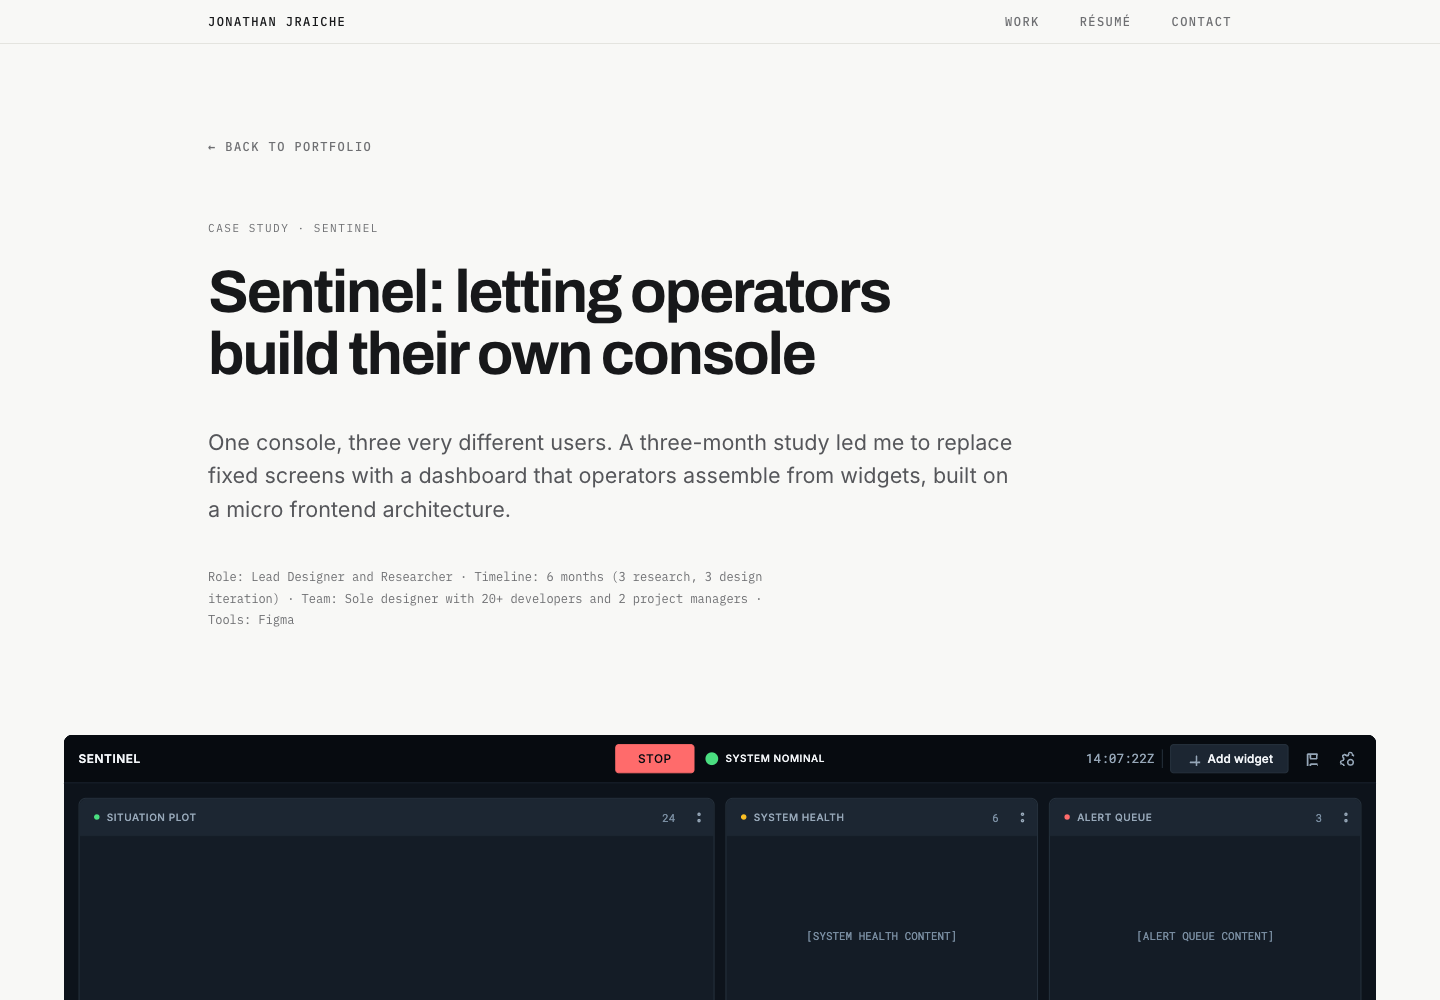
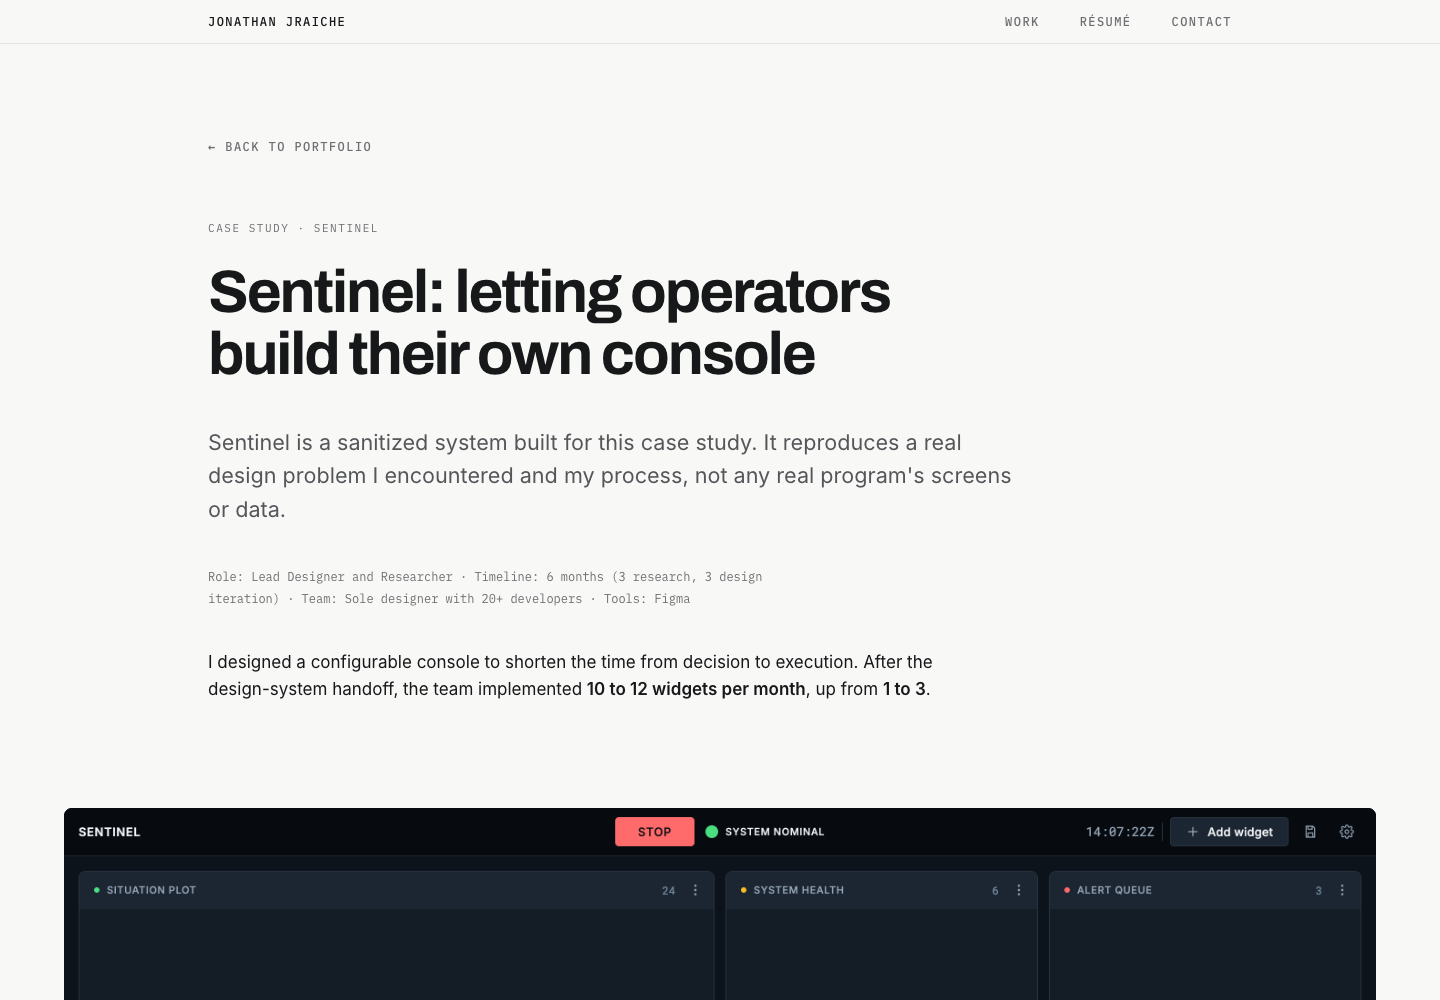
Ground Sentinel case study in research and implementation outcomes

diff --git a/src/pages/SentinelCaseStudy.jsx b/src/pages/SentinelCaseStudy.jsx
@@ -59,7 +59,7 @@ export default function SentinelCaseStudy() {
   const tried = sections['What I tried first'].split('### Fixed layouts by sign-in role');
   const walkthrough = [...sections['How the builder works'].matchAll(/`([^`]+)\.html`: `([^`]+)`/g)];
   return <SentinelSavedProvider><article className="sentinel-case-study" aria-labelledby="sentinel-title">
-    <div className="case-intro"><a className="case-back mono" href="#hero">← Back to portfolio</a><p className="micro">Case study · Sentinel</p><h1 id="sentinel-title">{value('Title')}</h1><p className="case-summary">{value('One-line summary')}</p><p className="case-meta"><Inline text={value('Meta row')} /></p></div>
+    <div className="case-intro"><a className="case-back mono" href="#hero">← Back to portfolio</a><p className="micro">Case study · Sentinel</p><h1 id="sentinel-title">{value('Title')}</h1><p className="case-summary">{value('One-line summary')}</p><p className="case-meta"><Inline text={value('Meta row')} /></p><p className="case-overview"><Inline text={value('Project summary')} /></p></div>
     <div className="case-wide"><Figure screen="Populated" eager /></div>
     <div className="case-body">
       <Section name="The problem"><Copy text={sections['The problem']} personas /></Section>

diff --git a/src/styles/sentinel-case-study.css b/src/styles/sentinel-case-study.css
@@ -7,6 +7,7 @@
 .case-intro h1 { max-width: 24ch; }
 .case-summary { font-size: var(--size-lede); line-height: 1.55; color: var(--color-ink-soft); max-width: 60ch; margin-top: var(--s-l); }
 .case-meta { font-family: var(--font-mono); font-size: .75rem; line-height: 1.8; color: var(--color-muted); max-width: 80ch; margin-top: var(--s-l); }
+.case-overview { max-width: 68ch; margin-top: var(--s-l); line-height: 1.6; }
 .case-wide { max-width: 96rem; padding-inline: var(--gutter); margin-inline: auto; }
 .case-screen { border-radius: var(--radius-lg); overflow: hidden; }
 .case-screen img { display: block; width: 100%; height: auto; }

diff --git a/sentinel-handoff/case-study/content.md b/sentinel-handoff/case-study/content.md
@@ -12,13 +12,17 @@ Page structure and draft copy. Write the copy as given; keep every `[BRACKETED]`
 
 **Meta row:** Role: Lead Designer and Researcher · Timeline: 6 months (3 research, 3 design iteration) · Team: Sole designer with 20+ developers · Tools: Figma
 
+**Project summary:** I designed a configurable console to shorten the time from decision to execution. After the design-system handoff, the team implemented **10 to 12 widgets per month**, up from **1 to 3**.
+
 **Hero figure:** `Populated.html` (Configuration in use).
 
 ---
 
 ## The problem
 
-I was charged with performing a 3-month research study to identify user needs for a console application that would combine existing tool capabilities across various domains. I found that the console would have to serve a much wider range of roles than the team initially expected. Their needs grouped into three personas that rarely overlapped:
+The project supported a high-stakes environment where decisions often had to be made quickly, with little room for error. Operators had to switch between applications to carry out those decisions. The goal was to shorten the time from decision to execution, our primary KPI, by bringing those tools into one console.
+
+I led a three-month research study to understand what users needed from the combined console. I found that it would have to serve a much wider range of roles than the team initially expected. Their needs grouped into three personas that rarely overlapped:
 
 * **Operators** do the hands-on work in the system and need their working tools in front of them at once.
 * **Supervisors** need to see what operators are doing, along with high-level health and status.
@@ -36,12 +40,18 @@ I was the only designer on a team of more than 20 developers and 2 project manag
 
 I had full ownership of how the research was run. The constraint was access: time with end users and stakeholders was limited, so every session had to earn its slot. I mixed methods to get the most out of it:
 
-* **One-on-one interviews** to understand each persona's work in depth.
+* **One-on-one interviews** with roughly 15 participants, with two rounds per person, to understand their work in depth.
 * **Group studies** to see where needs overlapped and where they conflicted.
 * **Surveys** to reach more users than live sessions allowed.
-* **A/B tests** comparing three approaches: tabbed views, building a dashboard by adding widgets, and loading a saved layout. The final design combines the last two.
+* **A/B tests** comparing the console builder with tabbed views and fixed layouts assigned at sign-in.
 
-The interviews drove the decision. They showed a much wider breadth of user roles than the team had planned for, wide enough that the solution the developers were already proposing would not hold up. At the end of the study I proposed the widget-based approach to stakeholders. It was approved, and design iteration began.
+### What I learned
+
+Some users needed to see related information together as they worked. The capabilities we were combining did not come as separate tools. I broke them into widgets so users could put the pieces they needed next to each other.
+
+Many users needed capabilities that were missing from their assigned views, while other capabilities in those views were irrelevant to their work. That feedback supported letting people choose which widgets appeared together.
+
+The interviews and group studies let me map each type of user to the tools they needed. That gave me confidence in recommending a configurable console to stakeholders. The proposal was approved, and design iteration began.
 
 ---
 
@@ -49,13 +59,13 @@ The interviews drove the decision. They showed a much wider breadth of user role
 
 ### Tabbed views
 
-Each tool got its own tab. It kept every view uncluttered, but only one view was visible at a time. Operators and supervisors both needed related widgets side by side to do their jobs, and tabs split that context apart.
+Each capability got its own tab. It kept every view uncluttered, but only one view was visible at a time. Operators and supervisors both needed related widgets side by side to do their jobs, and tabs split that context apart.
 
 **Figure:** `Explored-Tabs.html`, caption: `Tabbed views: clean, but one view at a time.`
 
 ### Fixed layouts by sign-in role
 
-The console would load a layout for whoever signed in: operator, supervisor, or maintainer. It addressed the persona problem on paper, but it required role-aware sign-in and layout routing the platform did not have, and the result was still a fixed layout per role. Any engineering investment had to pay for itself, and that work bought less than the alternative: moving the console to a micro frontend architecture.
+The console would load a fixed layout for whoever signed in: operator, supervisor, or maintainer. These views did not match the combinations of capabilities many users needed. The approach also required role-aware sign-in and layout routing that the platform did not have.
 
 **Figure:** `Explored-RoleLogin.html`, caption: `An early concept with fixed layouts for operators, supervisors, and maintainers.`
 
@@ -63,17 +73,29 @@ The console would load a layout for whoever signed in: operator, supervisor, or 
 
 ## The decision
 
-Let people build the console themselves. Every capability became a widget with a single purpose, and anyone can assemble the widgets they need on a 12-column grid. A layout library gives each persona a sensible starting point, so nobody begins from a blank canvas.
+I broke the combined capabilities into widgets, each with a single purpose. Users could arrange the widgets they needed on a 12-column grid or start from a pre-built layout and customize it.
 
 ### Why micro frontends made this work
+
+After I presented the research findings and recommended a "build your own console" approach, the lead developer suggested micro frontends as a way to support it. We agreed to move forward with that architecture.
 
 In a micro frontend architecture, the interface is split into independently built and deployed pieces that a host application, the shell, composes at runtime. That mapped directly onto the design:
 
 * **The shell owns the frame.** Layout, the grid, saved configurations, and the global controls (STOP and system status) live in the shell. They behave the same no matter which widgets are on screen.
-* **Widgets are the deployable units.** Most widgets were their own micro frontend. A few that shared the same data and always shipped together lived in one micro frontend that exposed several widgets. The boundary followed what belonged together, not one-widget-per-repo for its own sake.
+* **Widgets are the deployable units.** Most widgets were their own micro frontend. A few that shared the same data and always shipped together lived in one micro frontend that exposed several widgets.
 * **New capability without a console release.** A new widget could ship on its own release cadence and appear in the picker without touching the shell.
-* **Failure stays contained.** Because each widget loads independently, one failing widget should not take the console down with it. That made per-widget loading, empty, and error states part of the design, not an afterthought.
+* **Failure stays contained.** Each widget loads independently, so a failing widget should not take the console down with it. I designed loading, empty, and error states for individual widgets.
 * **One design system across all of it.** Independently built pieces only feel like one product if they share tokens and components. The Sentinel system is what kept every widget consistent.
+
+### What we built first
+
+We prioritized the most frequently used widgets that needed context from one another. Less frequently used widgets stayed outside the initial scope because they would be easier to add once we understood the complex flows that depended on context across tools.
+
+### Working with developers
+
+I presented clickable Figma mockups to developers so they could walk through the console building flow.
+
+The team was concerned that users could build consoles that were too complicated or too simple. I added pre-built layouts as a starting point, while keeping the option to customize. That brought the team into alignment.
 
 ### Key interaction decisions
 
@@ -110,13 +132,17 @@ A short walkthrough with one figure per step. Captions only, no extra body copy.
 
 ## The exception: maintainers
 
-Widgets worked for watching and acting. They did not work for diagnosis. Maintainers needed to move from a subsystem to its components to its fault history quickly, and a grid of independent widgets made that path longer, not shorter. So maintainers got their own page built around drilling down.
+Maintainers told us they would always need the same screen and a layout built around drilling into detail. I gave them a dedicated page with a fixed layout organized around that workflow.
 
 **Embed:** the prototype, scenario "Maintainer diagnostics". Fallback figure: `Maintainer.html`.
 
 ---
 
 ## The design system
+
+I created the design system and handed it over to the developers so they could continue adding widgets and capabilities after my involvement ended.
+
+The system covered content inside widgets, including headings and settings layouts, as well as shared rules for adding widgets to the console.
 
 Sentinel runs on a small system built for operator density: neutral ink surfaces, color reserved for status, monospaced numbers so columns hold still while values refresh, and every status paired with a word, never color alone.
 
@@ -126,6 +152,8 @@ Sentinel runs on a small system built for operator density: neutral ink surfaces
 
 ## Outcome
 
-Stakeholders approved the move to a micro frontend architecture where users build the dashboard they need, and end users responded well to it. It is in development now.
+Stakeholders approved the configurable console approach. After I handed the design system over to developers, the team implemented 10 to 12 widgets per month, up from 1 to 3 per month previously.
 
-The bigger change was the direction. The team was heading toward a solution that fit the roles it assumed it had. Research showed the real range of roles, and the product changed course before that mismatch was built.
+Feedback from users after testing clickable prototypes indicated that the proposed console would shorten the time from decision to execution, our primary KPI.
+
+Looking back, I would have pitched the "build your own console" concept to stakeholders and end users earlier. For other products serving several types of users, I would use the same combination of one-on-one interviews and group studies to map the tools each group needed.

diff --git a/docs/SENTINEL.md b/docs/SENTINEL.md
@@ -61,7 +61,7 @@ Generated figures live in `src/assets/sentinel` and are imported through `figure
 4. **PASS:** The same browser flow completed with keyboard activation, arrow movement, Shift and arrow resizing, inline rename, Delete, Undo, and Save. Picker focus previews footprints. Dialog focus stays inside; Escape closes the picker or dialog. Moves and resizes announce through a polite live region. Widget DOM order follows row and column order.
 5. **PASS:** Shared placement validation rejects collisions, negative positions, fractional cells, out-of-bounds columns, and dimensions below the catalog minimum. Pointer dragging and resizing were exercised in the browser. A mixed session of 200 widget placements passes without overlap.
 6. **PASS:** Lighthouse desktop and mobile accessibility scores: **100**. Axe reports **zero violations** on the complete page at 1440px, 1024px, and 390px, and in 16 rendered console states, including dialogs, menus, inline rename, Undo, and unknown diagnostics. Reports are saved in this directory. Automated audits do not replace assistive-technology user testing.
-7. **PASS:** No em dashes in rendered UI strings. Both source and rendered-page checks pass. Supplied prose is preserved, including its placeholders.
+7. **PASS:** No em dashes in rendered UI strings. Both source and rendered-page checks pass. Prose follows the portfolio owner's revisions, and widget content placeholders remain visible.
 
 ## Additional verification
 
